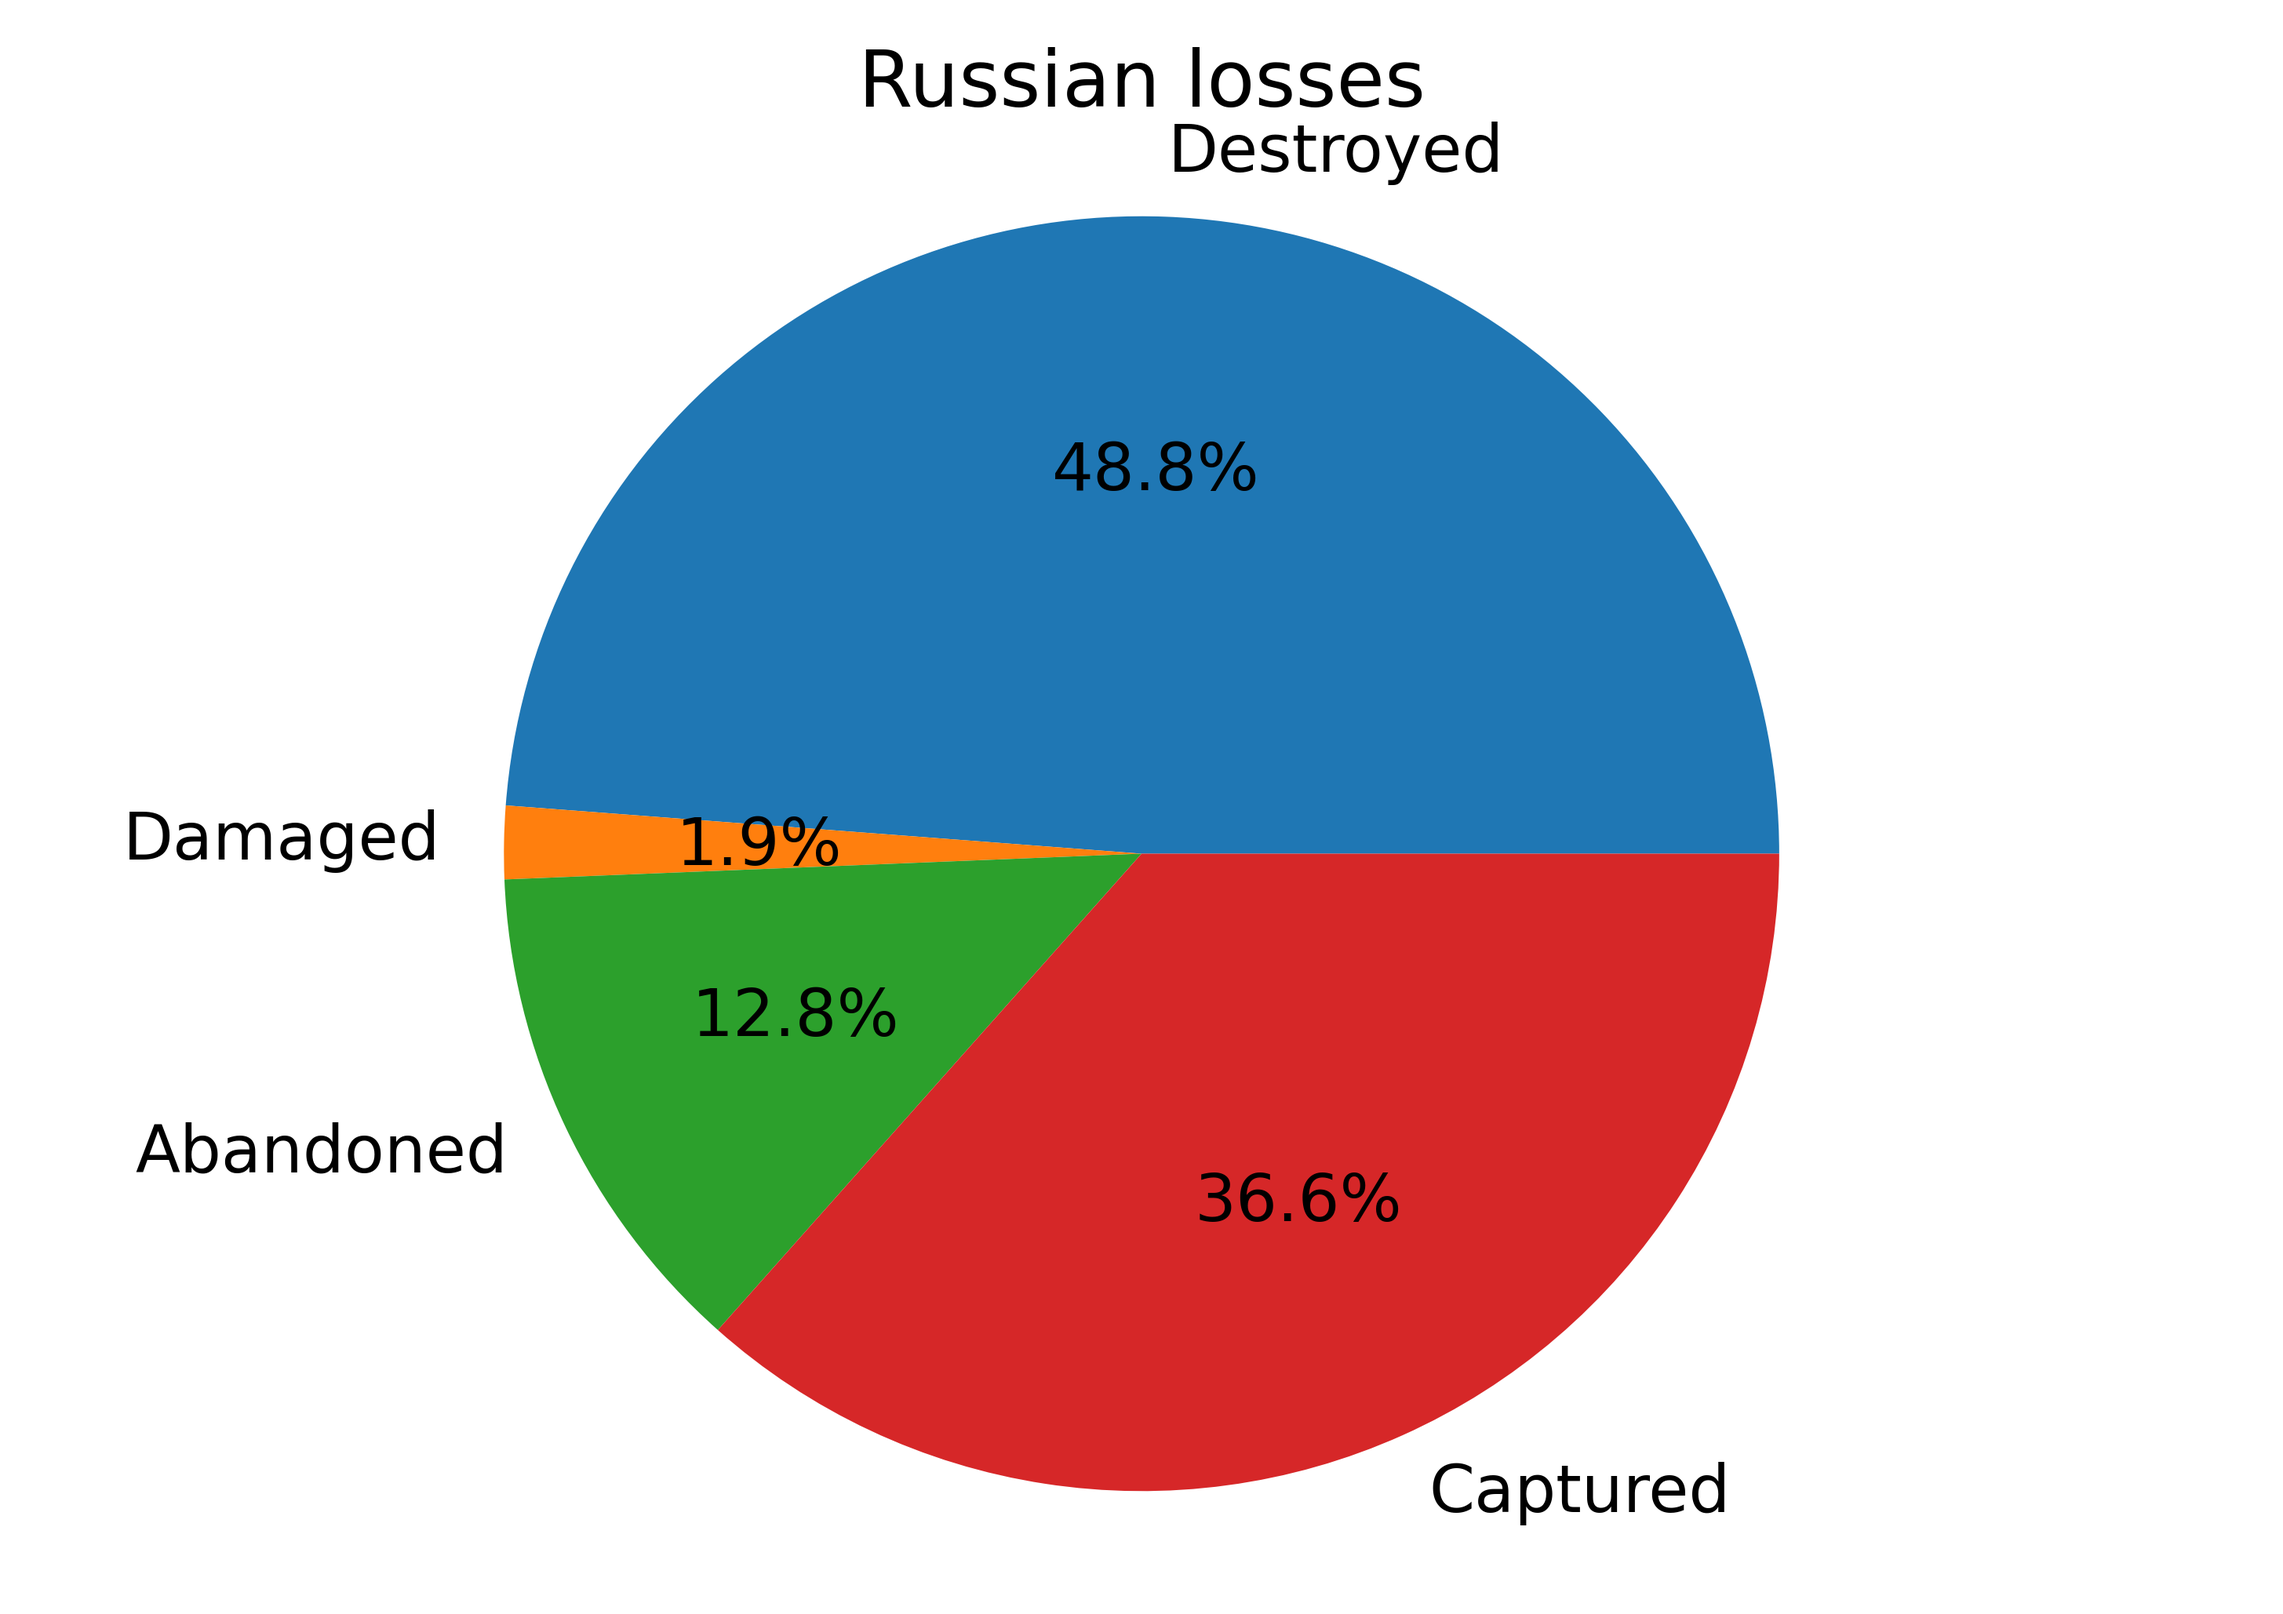
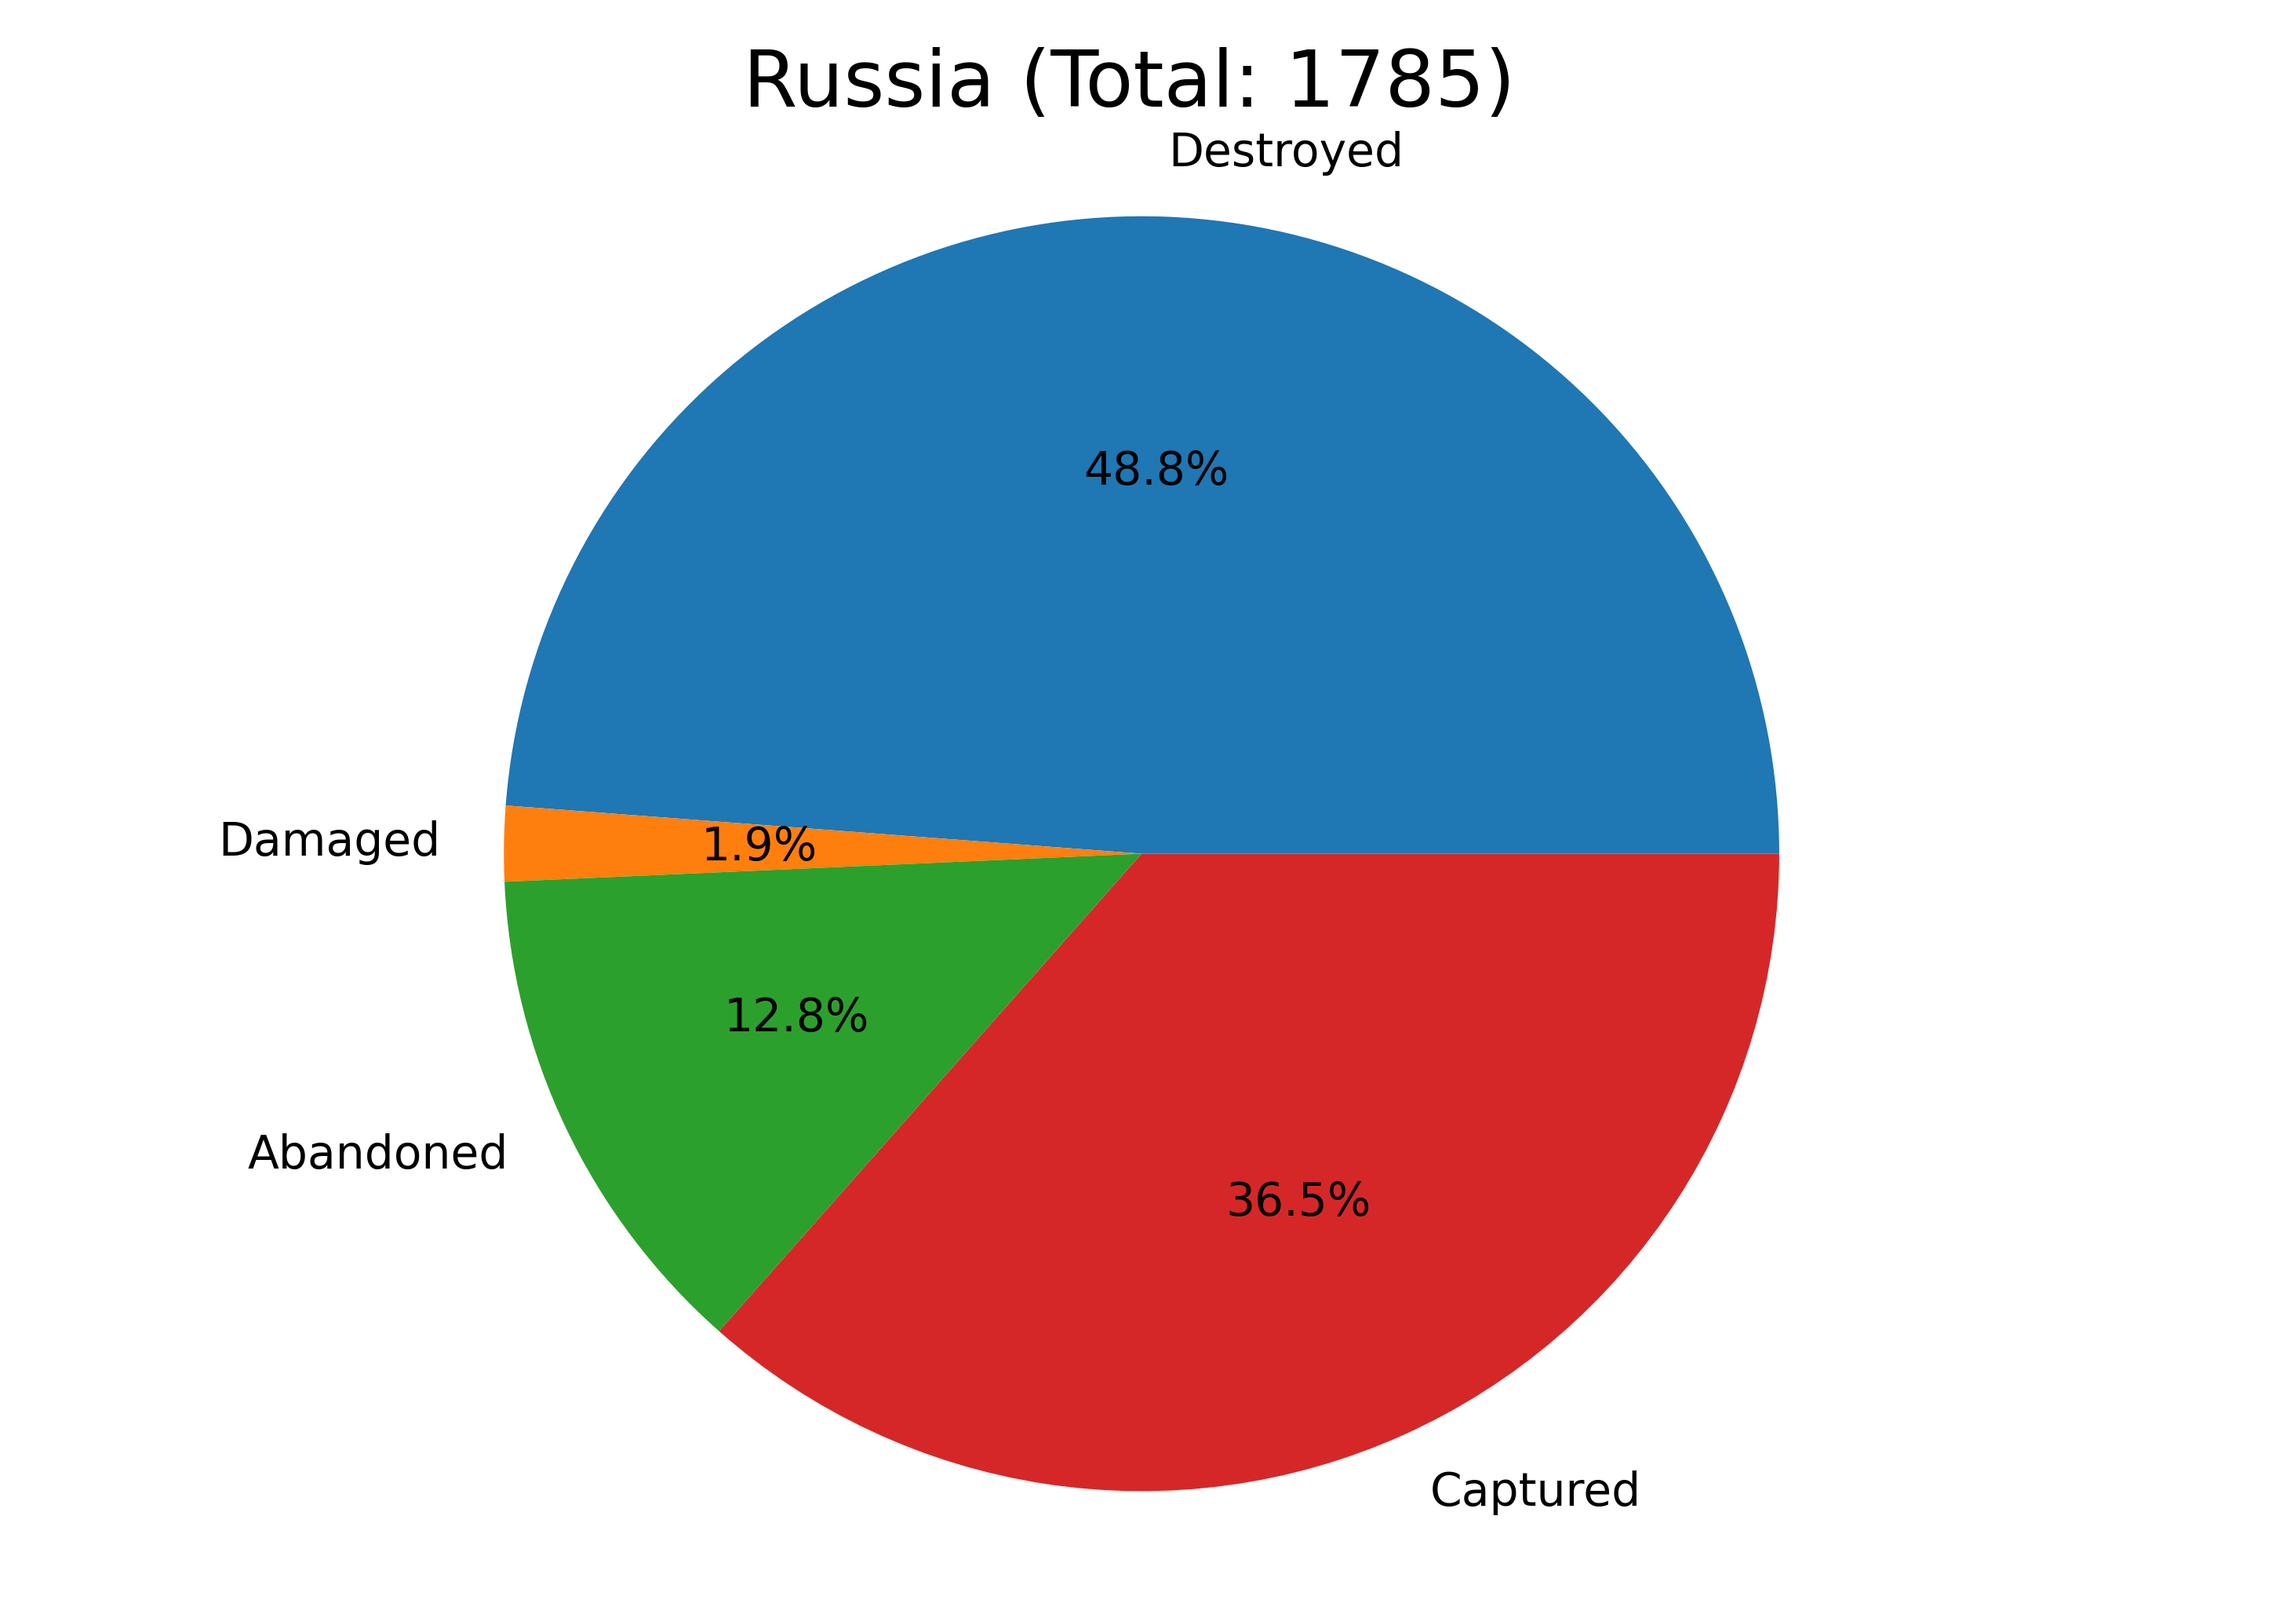
streamlit added

diff --git a/scraping.py b/scraping.py
@@ -5,8 +5,7 @@ import pandas as pd
 import matplotlib.pyplot as plt
 import os
 from utils.preprocessing import cleanup
-import numpy as np
-
+import pickle
 #%% Open browser and navigate to page to retrieve data from
 url = (
     "https://www.oryxspioenkop.com/2022/02/attack-on-europe-documenting-equipment.html"
@@ -14,20 +13,9 @@ url = (
 html = requests.get(url).content
 soup = BeautifulSoup(html)
 #%% Retrieve content from HTML page
-# Y= []
-
-# Tags = soup.find_all(id= 'Pistols') # Find all objects with ID "Pistols" - i.e all vehicles categories
-# for i in range(len(Tags)):
-#     print(Tags[i].contents[0])
-#     if len(str(Tags[i].contents[0])) > 1: # Get rid of the empty lines
-#         Y.append(str(Tags[i].contents[0]))
-
-
-# Retrive all content of h3 tags- where data of interest is stored
-#%% Cleanup data - to be put in separate file
-#%% Remove all the HTML characters and things we don't need
-#%% Split all elements into different str
-
+# Cleanup data - to be put in separate file
+# Remove all the HTML characters and things we don't need
+# Split all elements into different str
 tags2 = soup.find_all(
     "h3"
 )  # Retrive all content of h3 tags- where data of interest is stored
@@ -300,6 +288,9 @@ df_ua.Captured = pd.to_numeric(df_ua.Captured)
 #%% Get rid of columns with same words - tidy up
 df_ru = df_ru.drop(labels=["des", "dam", "aba", "capt"], axis=1)
 df_ua = df_ua.drop(labels=["des", "dam", "aba", "capt"], axis=1)
+#%% Dump dataframes with pickle
+df_ru.to_csv(r'df_ru.csv', header=True, index=None, sep=',', mode='w')
+df_ua.to_csv(r'df_ua.csv', header=True, index=None, sep=',', mode='w')
 #%% Create paths to save figs
 path_ru = os.path.join(os.getcwd(), "Russia")
 if not os.path.exists("Russia"):
@@ -308,8 +299,8 @@ if not os.path.exists("Russia"):
 path_ua = os.path.join(os.getcwd(), "Ukraine")
 if not os.path.exists("Ukraine"):
     os.makedirs("Ukraine")
-#%% Plotting section
-ax = df_ru.iloc[1:].plot.bar(
+#%% Stacked bar chart per vehicle
+ax = df_ru.sort_values(by = "Total",ascending = False).iloc[1:].plot.bar(
     x="Vehicle Type",
     y=["Destroyed", "Damaged", "Abandoned", "Captured"],
     stacked=True,
@@ -319,7 +310,7 @@ ax = df_ru.iloc[1:].plot.bar(
 ax.figure.savefig(
     os.path.join(path_ru, "stacked_chart_Russia.png"), bbox_inches="tight", dpi=600
 )
-ax1 = df_ua.iloc[1:].plot.bar(
+ax1 = df_ua.sort_values(by = "Total",ascending = False).iloc[1:].plot.bar(
     x="Vehicle Type",
     y=["Destroyed", "Damaged", "Abandoned", "Captured"],
     stacked=True,
@@ -334,15 +325,25 @@ ax1.figure.savefig(
 fig1, (ax2, ax3) = plt.subplots(nrows=2, ncols=1)  # two axes on figure
 Tasks = df_ru.loc[0].loc[["Destroyed", "Damaged", "Abandoned", "Captured"]]
 my_labels = ["Destroyed", "Damaged", "Abandoned", "Captured"]
-ax2.pie(Tasks, labels=my_labels, autopct="%1.1f%%")
-ax2.set_title("Russian losses")
+ax2.pie(Tasks, labels=my_labels, autopct="%1.1f%%",textprops={'fontsize': 7})
+ax2.set_title(
+    df_ru.loc[0].loc["Vehicle Type"]
+    + " (Total: "
+    + str(df_ru.loc[0].loc["Total"])
+    + ") "
+)
 ax2.axis("equal")
 # ax2.plt.show()
 
 Tasks_ua = df_ua.loc[0].loc[["Destroyed", "Damaged", "Abandoned", "Captured"]]
 my_labels = ["Destroyed", "Damaged", "Abandoned", "Captured"]
-ax3.pie(Tasks_ua, labels=my_labels, autopct="%1.1f%%")
-ax3.set_title("Ukrainian losses")
+ax3.pie(Tasks_ua, labels=my_labels, autopct="%1.1f%%",textprops={'fontsize': 7})
+ax3.set_title(
+    df_ru.loc[0].loc["Vehicle Type"]
+    + " (Total: "
+    + str(df_ua.loc[0].loc["Total"])
+    + ") "
+)
 ax3.axis("equal")
 # ax3.show()
 fig1.savefig(os.path.join(path_ru, "Pie_chart_RU_UA.png"), bbox_inches="tight", dpi=600)
@@ -350,8 +351,13 @@ fig1.savefig(os.path.join(path_ru, "Pie_chart_RU_UA.png"), bbox_inches="tight", 
 fig1, ax1 = plt.subplots()
 Tasks = df_ru.loc[0].loc[["Destroyed", "Damaged", "Abandoned", "Captured"]]
 my_labels = ["Destroyed", "Damaged", "Abandoned", "Captured"]
-ax1.pie(Tasks, labels=my_labels, autopct="%1.1f%%")
-ax1.set_title("Russian losses")
+ax1.pie(Tasks, labels=my_labels, autopct="%1.1f%%",textprops={'fontsize': 7})
+ax1.set_title(
+    df_ru.loc[0].loc["Vehicle Type"]
+    + " (Total: "
+    + str(df_ru.loc[0].loc["Total"])
+    + ") "
+)
 ax1.axis("equal")
 fig1.savefig(os.path.join(path_ru, "Pie_chart_RU.png"), bbox_inches="tight", dpi=600)
 # ax2.plt.show()
@@ -359,8 +365,13 @@ fig1.savefig(os.path.join(path_ru, "Pie_chart_RU.png"), bbox_inches="tight", dpi
 fig1, ax1 = plt.subplots()
 Tasks = df_ua.loc[0].loc[["Destroyed", "Damaged", "Abandoned", "Captured"]]
 my_labels = ["Destroyed", "Damaged", "Abandoned", "Captured"]
-ax1.pie(Tasks, labels=my_labels, autopct="%1.1f%%")
-ax1.set_title("Ukrainian losses")
+ax1.pie(Tasks, labels=my_labels, autopct="%1.1f%%",textprops={'fontsize': 7})
+ax1.set_title(
+    df_ua.loc[0].loc["Vehicle Type"]
+    + " (Total: "
+    + str(df_ua.loc[0].loc["Total"])
+    + ") "
+)
 ax1.axis("equal")
 fig1.savefig(os.path.join(path_ua, "Pie_chart_UA.png"), bbox_inches="tight", dpi=600)
 # ax2.plt.show()
@@ -392,7 +403,6 @@ for i in range(1, len(df_ru)):
         dpi=600,
     )
 
-
 for i in range(1, len(df_ua)):
     fig1, ax1 = plt.subplots()
     # Tasks = df_ua.loc[i].loc[["Destroyed", "Damaged", "Abandoned", "Captured"]]
@@ -403,7 +413,7 @@ for i in range(1, len(df_ua)):
     my_labels = ["Destroyed", "Damaged", "Abandoned", "Captured"]
     ax1.pie(
         Tasks, labels=m1, autopct=lambda p: "{:.1f}%".format(round(p)) if p > 0 else ""
-    )
+    ,textprops={'fontsize': 7})
     ax1.set_title(
         df_ua.loc[i].loc["Vehicle Type"]
         + " (Total: "

diff --git a/stream_app.py b/stream_app.py
@@ -1,0 +1,81 @@
+#%% Import modules
+import streamlit as st
+import pickle
+import pandas as pd
+import os
+from PIL import Image
+from itertools import cycle
+import matplotlib.pyplot as plt
+#%% Define paths
+path_ru = os.path.join(os.getcwd(), "Russia")
+path_ua = os.path.join(os.getcwd(), "Ukraine")
+#%% Import dataframes
+df_ru = pd.read_csv('df_ru.csv')
+df_ua = pd.read_csv('df_ru.csv')
+#%%
+st.title('Attack On Europe: Documenting Equipment Losses During The 2022 Russian Invasion Of Ukraine')
+
+st.header("Summary", anchor=None)
+image1 = Image.open(os.path.join(path_ru, "Pie_chart_RU_UA.png"))
+#st.image([image1, image2], width=150, use_column_width = True)
+st.image([image1], width=150, use_column_width = True)
+
+
+#%% Vehicle summary
+st.subheader("Summary by type of vehicles", anchor=None)
+
+
+image1 = Image.open(os.path.join(path_ru, "stacked_chart_Russia.png"))
+image2 = Image.open(os.path.join(path_ua, "stacked_chart_Ukraine.png"))
+#st.image([image1, image2], width=150, use_column_width = True)
+
+
+filteredImages = [image1, image2] # your images here
+caption = ["im1", "im2"] # your caption here
+cols = cycle(st.columns(2)) # st.columns here since it is out of beta at the time I'm writing this
+for idx, filteredImage in enumerate(filteredImages):
+    next(cols).image(filteredImage, width=335, caption=caption[idx])
+    
+def pie_maker(df):
+     fig1, ax1 = plt.subplots(1,1,figsize=(10,4))
+     m2 = (df != 0).any()
+     m1 = df.columns[m2][2:]
+     # Tasks = df_ru.loc[i].loc[["Destroyed", "Damaged", "Abandoned", "Captured"]]
+     Tasks = df.loc[m1]
+     # my_labels = ["Destroyed", "Damaged", "Abandoned", "Captured"]
+     ax1.pie(
+         Tasks, labels=m1, autopct=lambda p: "{:.1f}%".format(round(p)) if p > 0 else ""
+     )
+     ax1.set_title(
+         df.loc["Vehicle Type"]
+         + " (Total: "
+         + str(df_ru.loc["Total"])
+         + ")"
+     )
+     ax1.axis("equal")
+     st.pyplot(fig = fig1, clear_figure  = False)
+     
+     
+def disp_buttons(df):
+    for i in range(1, len(df)):
+        #st.button(df.loc[i].loc["Vehicle Type"], key=i, help=None )   
+        if st.button(df.loc[i].loc["Vehicle Type"], key=i, help=None ):
+           pie_maker(df.loc[i])
+           st.subheader("TEST", anchor=None)
+    return df
+            
+           # clicked.empty()
+            
+       
+    
+st.subheader("Generate a specific graph:", anchor=None)
+ 
+if st.button("Russia"):
+    disp_buttons(df_ru)
+    #button_RU.empty()
+    
+ 
+if st.button("Ukraine"):
+    disp_buttons(df_ua)
+    #button_UA.empty()
+    
